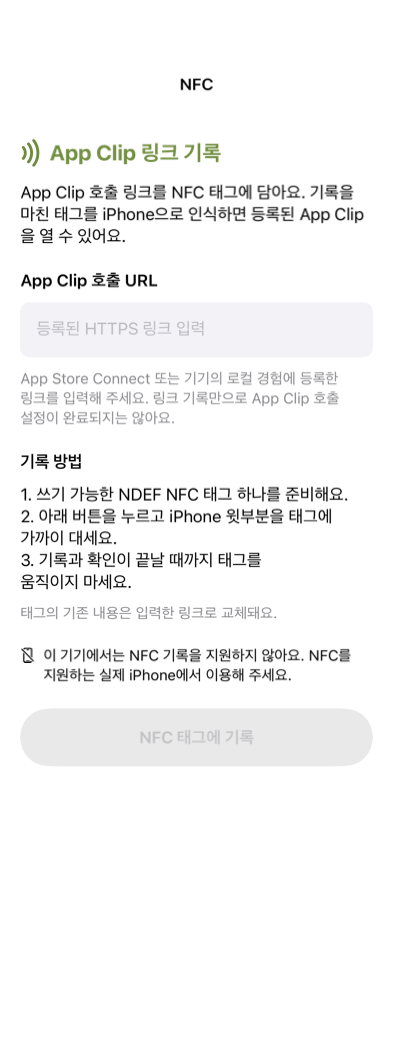
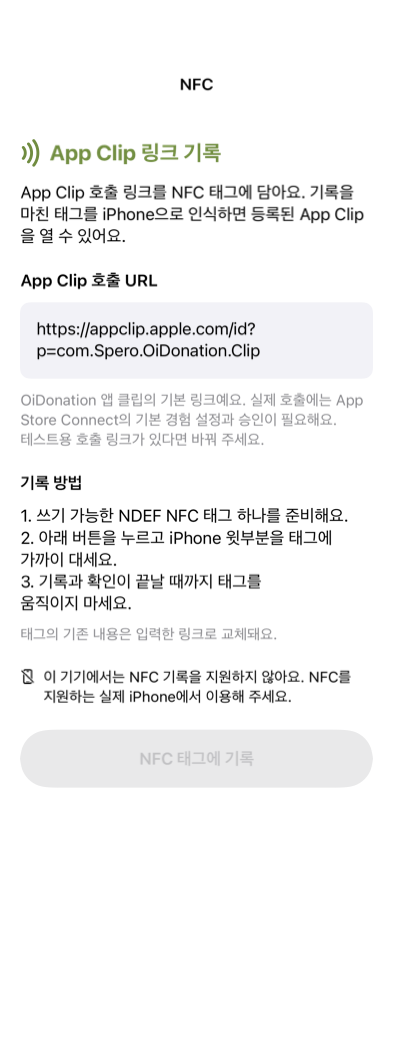
[feat] NFC 화면에 앱 클립 기본 링크 입력

Changed region(s): [[0.0305, 0.3048, 0.916, 0.7314]]

diff --git a/apps/ios/OiDonation/Features/NFC/NFCWriteView.swift b/apps/ios/OiDonation/Features/NFC/NFCWriteView.swift
@@ -5,7 +5,7 @@ import SwiftUI
 struct NFCWriteView: View {
     @Environment(\.scenePhase) private var scenePhase
     @FocusState private var isURLFocused: Bool
-    @State private var invocationURL = ""
+    @State private var invocationURL = "https://appclip.apple.com/id?p=com.Spero.OiDonation.Clip"
     @State private var writer = NFCWriter()
 
     private var validationMessage: String? {
@@ -44,7 +44,7 @@ struct NFCWriteView: View {
                         Label(validationMessage, systemImage: "exclamationmark.circle")
                             .font(.subheadline).foregroundStyle(.secondary)
                     }
-                    Text("App Store Connect 또는 기기의 로컬 경험에 등록한 링크를 입력해 주세요. 링크 기록만으로 App Clip 호출 설정이 완료되지는 않아요.")
+                    Text("OiDonation 앱 클립의 기본 링크예요. 실제 호출에는 App Store Connect의 기본 경험 설정과 승인이 필요해요. 테스트용 호출 링크가 있다면 바꿔 주세요.")
                         .font(.subheadline).foregroundStyle(.secondary)
                 }
 

diff --git a/apps/ios/docs/nfc-writer.md b/apps/ios/docs/nfc-writer.md
@@ -2,7 +2,7 @@
 
 2026-10-22 / #89
 
-홈의 `사진 테스트` 바로 아래 `NFC` 버튼에서 기록 화면으로 이동한다. 사용자가 입력한 등록된 HTTPS 호출 URL을 Core NFC의 NDEF URI 레코드 하나로 기록한다. 기존 태그의 NDEF 내용은 교체하며 태그를 영구 잠금하지 않는다.
+홈의 `사진 테스트` 바로 아래 `NFC` 버튼에서 기록 화면으로 이동한다. OiDonation App Clip 번들 ID에 맞춘 Apple 기본 링크 `https://appclip.apple.com/id?p=com.Spero.OiDonation.Clip`을 미리 입력한다. 사용자는 필요한 호출 URL로 바꿀 수 있으며, 입력한 HTTPS URL을 Core NFC의 NDEF URI 레코드 하나로 기록한다. 기존 태그의 NDEF 내용은 교체하며 태그를 영구 잠금하지 않는다.
 
 ## 동작과 상태
 
@@ -20,7 +20,7 @@
 
 태그 기록 성공은 App Clip 호출 설정 완료를 뜻하지 않는다. Apple에서 발급한 기본/데모 링크 또는 등록한 웹 호출 URL을 사용해야 한다. 커스텀 웹 URL은 Associated Domains와 AASA 등 해당 호출 방식의 설정이 필요하다. 개발 기기에서는 로컬 경험으로 시험할 수 있다. 전체 앱이 설치되어 있으면 태그 호출이 전체 앱으로 연결될 수 있다.
 
-현재 App Clip 코드는 `example.com/stories/<plaqueID>`만 허용하는 초기 구현이며, 운영 URL·원격 콘텐츠 연결은 확정되지 않았다. NFC 화면은 예시 URL을 기본값으로 넣지 않는다. 실제 호출 URL과 App Clip의 링크 처리·콘텐츠 구성이 서로 맞는지 별도 확인해야 한다.
+현재 App Clip 코드는 `example.com/stories/<plaqueID>`만 허용하는 초기 구현이며, 운영 URL·원격 콘텐츠 연결은 확정되지 않았다. NFC 화면은 Apple의 기본 링크 형식에 실제 Clip 번들 ID를 넣어 미리 표시한다. 2026-10-22 App Store Connect 확인 시 기본 경험·기본 링크·데모 URL은 미설정 상태였다. 기본 링크 표시는 해당 링크의 활성화를 의미하지 않으며, 실제 호출에는 기본 경험 설정과 승인이 필요하다. 현재 Clip 파서는 Apple 기본 링크를 아직 해석하지 않으므로 실제 호출 URL과 App Clip의 링크 처리·콘텐츠 구성이 서로 맞는지 별도 확인해야 한다.
 
 ## 검증 명령
 
